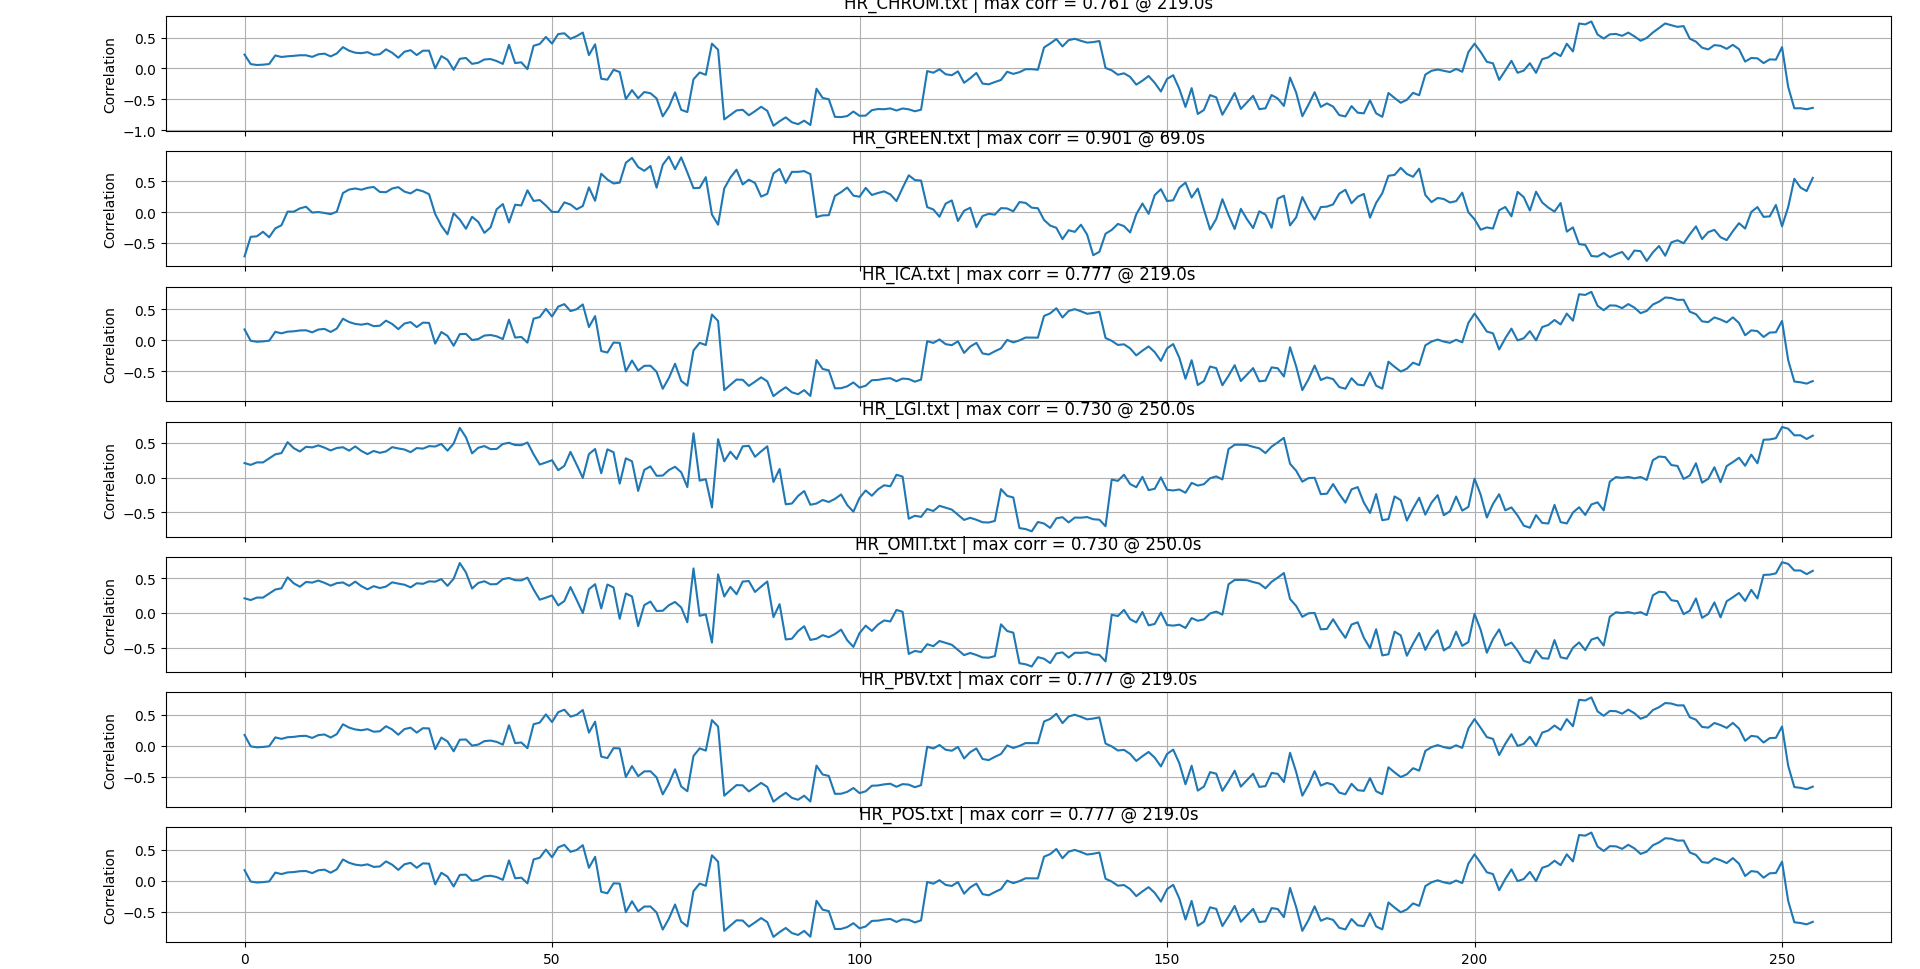
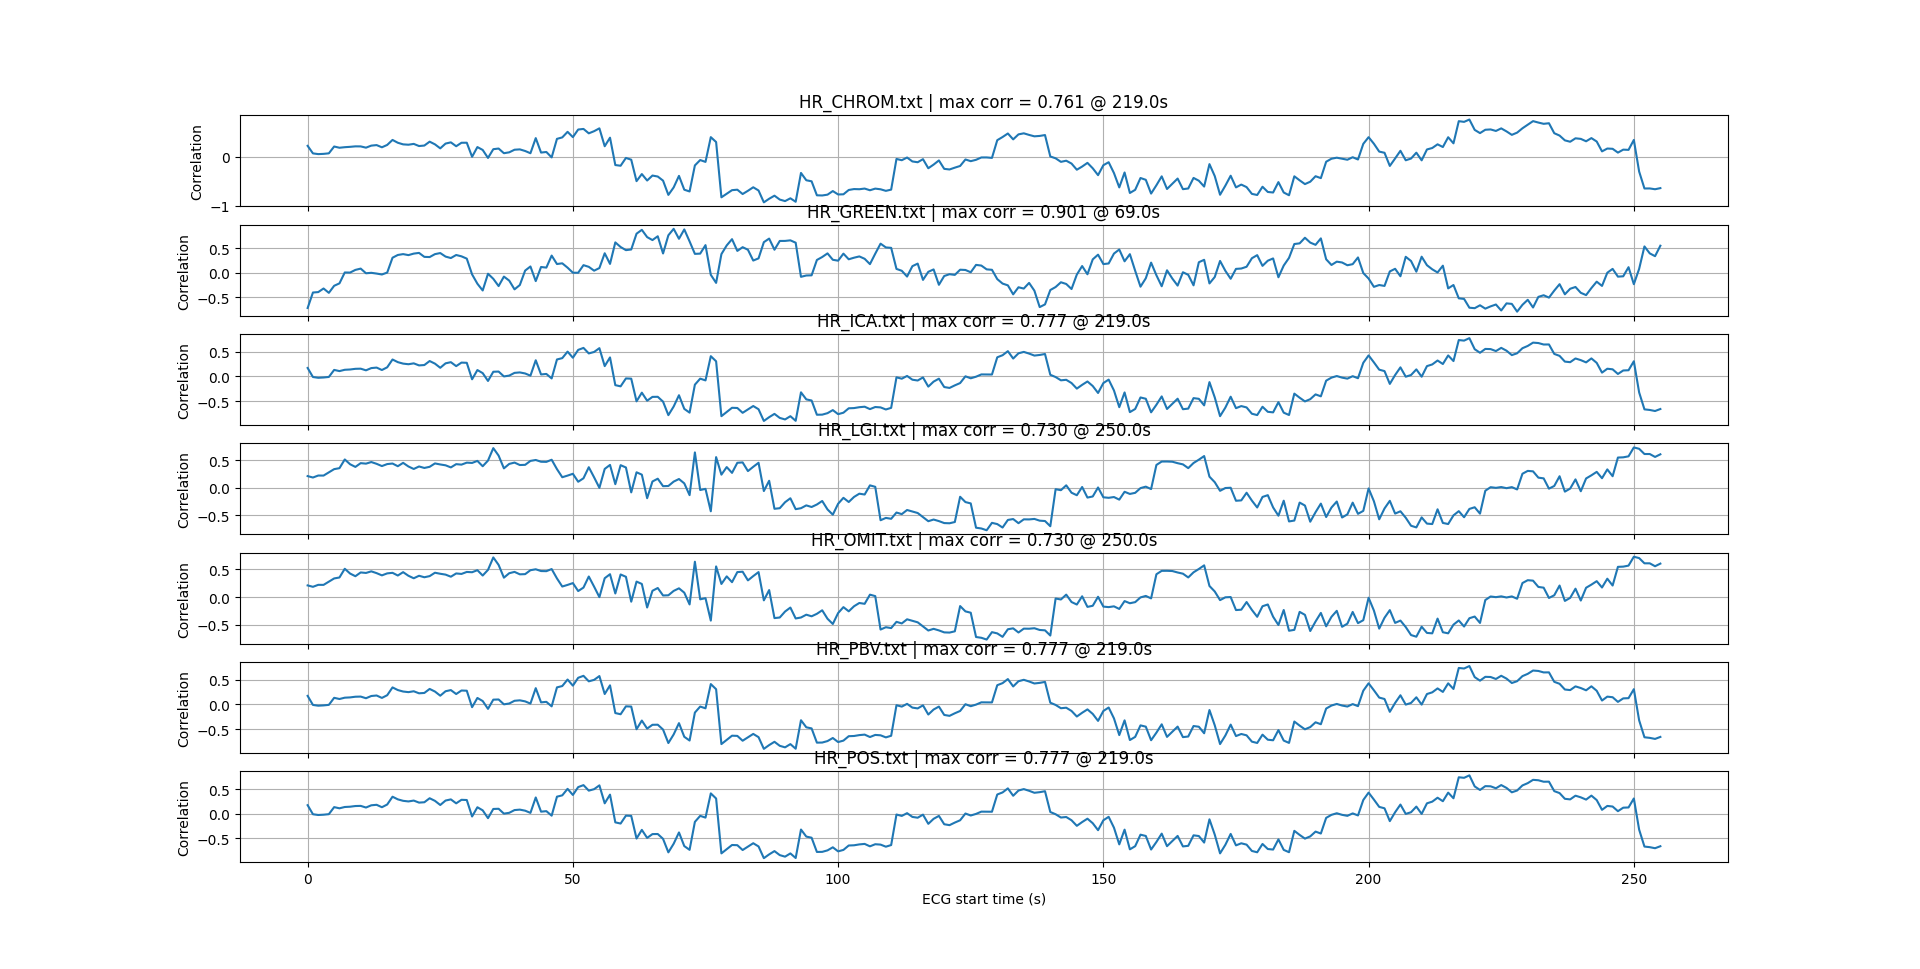
adjust hr estimation in correlation

diff --git a/signal_sync/find_correlation.py b/signal_sync/find_correlation.py
@@ -8,13 +8,13 @@ import matplotlib.pyplot as plt
 # Configuration
 # =========================
 
-FS = 250                    # ECG sampling rate (Hz)
+FS = 250
 
-WINDOW_15S = 15             # seconds
+WINDOW_15S = 15
 NUM_WINDOWS = 7
 TOTAL_ANALYSIS_TIME = WINDOW_15S * NUM_WINDOWS  # 105 s
 
-STEP_SECONDS = 1            # ECG sliding step
+STEP_SECONDS = 1
 STEP_SAMPLES = STEP_SECONDS * FS
 
 ECG_FILE = "/home/soph/rppg/rPPG/get_ground_truth/ecg_signal_L9_16-02_16-08.csv"
@@ -31,16 +31,10 @@ def estimate_hr_heartpy(ecg_segment, fs):
     try:
         wd, m = hp.process(
             ecg_segment,
-            sample_rate=fs,
-            windowsize=1
+            sample_rate=fs
         )
-
-        hr_values = wd['hr']
-        if len(hr_values) == 0:
-            return np.nan
-
-        return np.median(hr_values)
-
+        hr_value = m['bpm']
+        return hr_value
     except Exception:
         return np.nan
 
@@ -48,13 +42,13 @@ def estimate_hr_heartpy(ecg_segment, fs):
 # Load ECG once
 # =========================
 
-ecg = np.loadtxt(ECG_FILE)
+ecg = hp.get_data(ECG_FILE)
 
 window_15s_samples = WINDOW_15S * FS
 ecg_window_samples = TOTAL_ANALYSIS_TIME * FS
 
 # =========================
-# Iterate over HR prediction files
+# Load HR files
 # =========================
 
 hr_files = sorted([
@@ -64,27 +58,27 @@ hr_files = sorted([
 
 num_files = len(hr_files)
 
-fig, axes = plt.subplots(
-    num_files, 1,
-    figsize=(10, 3 * num_files),
-    sharex=True
-)
+# Storage
+correlation_results = {}
+best_hr_matches = {}
 
-if num_files == 1:
-    axes = [axes]
+# =========================
+# Main processing loop
+# =========================
 
 summary_results = {}
 
-for ax, hr_file in zip(axes, hr_files):
+for hr_file in hr_files:
+
     print(hr_file)
 
     ppg_hr = np.loadtxt(os.path.join(HR_PRED_FOLDER, hr_file))
-
     if len(ppg_hr) != NUM_WINDOWS:
         raise ValueError(f"{hr_file} must contain exactly {NUM_WINDOWS} values")
 
     best_corr = -np.inf
     best_start_sec = None
+    best_ecg_hr = None
     correlation_trace = []
 
     for start in range(0, len(ecg) - ecg_window_samples, STEP_SAMPLES):
@@ -93,11 +87,10 @@ for ax, hr_file in zip(axes, hr_files):
         ecg_hr = []
 
         for i in range(NUM_WINDOWS):
-            seg_start = i * window_15s_samples
-            seg_end = seg_start + window_15s_samples
-            segment = ecg_block[seg_start:seg_end]
-
-            hr = estimate_hr_heartpy(segment, FS)
+            seg = ecg_block[
+                i * window_15s_samples:(i + 1) * window_15s_samples
+            ]
+            hr = estimate_hr_heartpy(seg, FS)
             ecg_hr.append(hr)
 
         ecg_hr = np.array(ecg_hr)
@@ -111,34 +104,72 @@ for ax, hr_file in zip(axes, hr_files):
         if corr > best_corr:
             best_corr = corr
             best_start_sec = start / FS
+            best_ecg_hr = ecg_hr.copy()
+        
+        summary_results[hr_file] = (best_corr, best_start_sec)
 
-    summary_results[hr_file] = (best_corr, best_start_sec)
 
-    # -------------------------
-    # Plot correlation trace
-    # -------------------------
+    correlation_results[hr_file] = (correlation_trace, best_corr, best_start_sec)
+    best_hr_matches[hr_file] = (ppg_hr, best_ecg_hr)
 
-    if correlation_trace:
-        times, corrs = zip(*correlation_trace)
+# ======================================================
+# FIGURE 1 — Correlation traces
+# ======================================================
+
+fig1, axes1 = plt.subplots(
+    num_files, 1,
+    figsize=(10, 3 * num_files),
+    sharex=True
+)
+
+if num_files == 1:
+    axes1 = [axes1]
+
+for ax, hr_file in zip(axes1, hr_files):
+    trace, best_corr, best_start = correlation_results[hr_file]
+
+    if trace:
+        times, corrs = zip(*trace)
         ax.plot(times, corrs)
 
     ax.set_title(
-        f"{hr_file} | max corr = {best_corr:.3f} @ {best_start_sec:.1f}s"
+        f"{hr_file} | max corr = {best_corr:.3f} @ {best_start:.1f}s"
     )
     ax.set_ylabel("Correlation")
     ax.grid(True)
 
-# =========================
-# Final plot formatting
-# =========================
-
-axes[-1].set_xlabel("ECG start time (s)")
-plt.tight_layout()
+axes1[-1].set_xlabel("ECG start time (s)")
+# plt.tight_layout()
 plt.show()
 
-# =========================
-# Print summary
-# =========================
+# ======================================================
+# FIGURE 2 — Best HR sequence matches
+# ======================================================
+
+fig2, axes2 = plt.subplots(
+    num_files, 1,
+    figsize=(8, 3 * num_files),
+    sharex=True
+)
+
+if num_files == 1:
+    axes2 = [axes2]
+
+for ax, hr_file in zip(axes2, hr_files):
+    ppg_hr, ecg_hr = best_hr_matches[hr_file]
+
+    if ecg_hr is not None:
+        ax.plot(ppg_hr, marker='o', label="rPPG HR")
+        ax.plot(ecg_hr, marker='s', label="ECG HR (HeartPy)")
+
+    ax.set_title(hr_file)
+    ax.set_ylabel("Heart Rate (bpm)")
+    ax.legend()
+    ax.grid(True)
+
+axes2[-1].set_xlabel("15 s Window Index")
+# plt.tight_layout()
+plt.show()
 
 print("\n===== SUMMARY =====")
 for fname, (corr, start) in summary_results.items():
